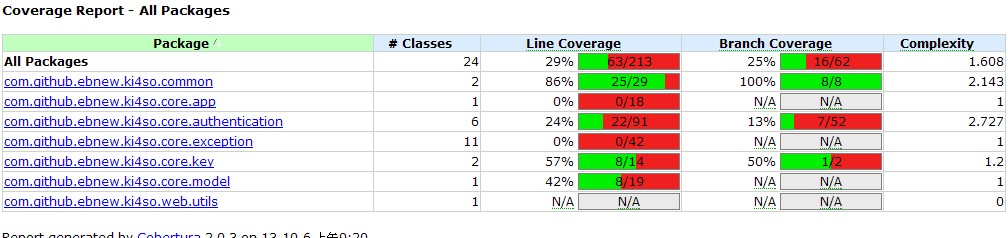
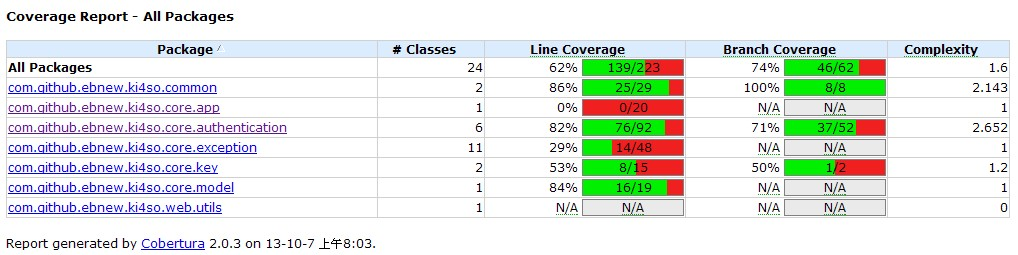
完善单元测试。

diff --git a/ki4so-common/src/test/java/com/github/ebnew/ki4so/core/authentication/EncryCredentialManagerImplTest.java b/ki4so-common/src/test/java/com/github/ebnew/ki4so/core/authentication/EncryCredentialManagerImplTest.java
@@ -2,6 +2,7 @@ package com.github.ebnew.ki4so.core.authentication;
 
 import java.io.UnsupportedEncodingException;
 import java.net.URLDecoder;
+import java.util.Date;
 
 import junit.framework.Assert;
 
@@ -11,6 +12,7 @@ import org.junit.Test;
 import org.mockito.Mockito;
 
 import com.github.ebnew.ki4so.common.Base64Coder;
+import com.github.ebnew.ki4so.core.exception.InvalidEncryCredentialException;
 import com.github.ebnew.ki4so.core.key.KeyService;
 import com.github.ebnew.ki4so.core.key.Ki4soKey;
 import com.github.ebnew.ki4so.core.model.EncryCredentialInfo;
@@ -20,6 +22,7 @@ import com.github.ebnew.ki4so.core.model.EncryCredentialInfo;
  * @author burgess yang
  *
  */
+
 public class EncryCredentialManagerImplTest {
 	
 	private EncryCredentialManagerImpl encryCredentialManager;
@@ -34,7 +37,29 @@ public class EncryCredentialManagerImplTest {
 	}
 
 	@Test
-	public void testDecrypt() {
+	public void testDecrypt() throws UnsupportedEncodingException {
+		
+		/**
+		 * 测试异常输入的情况，当加密的用户凭据为空的情况。
+		 */
+		Assert.assertNull(this.encryCredentialManager.decrypt(null));
+		EncryCredential encryCredential = new EncryCredential(null);
+		Assert.assertNull(this.encryCredentialManager.decrypt(encryCredential));
+		encryCredential = new EncryCredential("");
+		Assert.assertNull(this.encryCredentialManager.decrypt(encryCredential));
+		
+		
+		/**
+		 * 测试异常输入的情况，当加密的用户凭据不合法的情况。
+		 */
+		encryCredential = new EncryCredential("sdafdasfdsafdsa");
+		try{
+			this.encryCredentialManager.decrypt(encryCredential);
+			Assert.fail("invalid encry credential ,should trhow an exception.");
+		}
+		catch (InvalidEncryCredentialException e) {
+			
+		}
 	}
 
 	@Test
@@ -46,7 +71,9 @@ public class EncryCredentialManagerImplTest {
 		Assert.assertEquals(0, encryCredentialManager.encrypt(null).length());
 		
 		
-		//测试传入的参数不合法的情况。
+		/**
+		 * 测试传入的参数不合法的情况。
+		 */
 		EncryCredentialInfo encryCredentialInfo = new EncryCredentialInfo();
 		KeyService keyService = Mockito.mock(KeyService.class);
 		encryCredentialManager.setKeyService(keyService);
@@ -54,12 +81,16 @@ public class EncryCredentialManagerImplTest {
 		checkData(result, encryCredentialInfo);
 		
 		
-		//设置模拟服务，查询到的key为null.
+		/**
+		 * 设置模拟服务，查询到的key为null.
+		 */
 		result = encryCredentialManager.encrypt(encryCredentialInfo);
 		checkData(result, encryCredentialInfo);
 		
-		//设置模拟服务，查询到的key不是null.
-		String keyId = "100";
+		/**
+		 * 设置模拟服务，查询到的key不是null.
+		 */
+		String keyId = "1001";
 		Ki4soKey key = new Ki4soKey();
 		key.setKeyId(keyId);
 		key.setValue("dafdasfdasfds");
@@ -67,6 +98,24 @@ public class EncryCredentialManagerImplTest {
 		Mockito.when(keyService.findKeyByKeyId(keyId)).thenReturn(key);
 		result = encryCredentialManager.encrypt(encryCredentialInfo);
 		checkData(result, encryCredentialInfo);
+	
+		/**
+		 * 测试正常的情况。
+		 */
+		String appId = "1000";
+		String userId = "test";
+		encryCredentialInfo.setAppId(appId);
+		Date now = new Date();
+		encryCredentialInfo.setCreateTime(now);
+		encryCredentialInfo.setExpiredTime(now);
+		encryCredentialInfo.setKeyId(keyId);
+		encryCredentialInfo.setUserId(userId);
+		//加码。
+		result = encryCredentialManager.encrypt(encryCredentialInfo);
+		EncryCredential encryCredential = new EncryCredential(result);
+		//解码。
+		EncryCredentialInfo encryCredentialInfo2 = this.encryCredentialManager.decrypt(encryCredential);
+		checkEncryCredentialInfo(encryCredentialInfo, encryCredentialInfo2);
 	}
 	
 	private void checkData(String data, EncryCredentialInfo encryCredentialInfo) throws UnsupportedEncodingException{
@@ -94,9 +143,48 @@ public class EncryCredentialManagerImplTest {
 			Assert.assertEquals(encryCredentialInfo.getKeyId(), keyIds[1]);
 		}
 	}
+	
+	private void checkEncryCredentialInfo(EncryCredentialInfo encryCredentialInfo1, EncryCredentialInfo encryCredentialInfo2){
+		Assert.assertNotNull(encryCredentialInfo1);
+		Assert.assertNotNull(encryCredentialInfo2);
+		
+		Assert.assertEquals(encryCredentialInfo1.getAppId(), encryCredentialInfo2.getAppId());
+		Assert.assertEquals(encryCredentialInfo1.getKeyId(), encryCredentialInfo2.getKeyId());
+		Assert.assertEquals(encryCredentialInfo1.getUserId(), encryCredentialInfo2.getUserId());
+		Assert.assertEquals(encryCredentialInfo1.getCreateTime(), encryCredentialInfo2.getCreateTime());
+		Assert.assertEquals(encryCredentialInfo1.getExpiredTime(), encryCredentialInfo2.getExpiredTime());
+	}
 
 	@Test
 	public void testCheckEncryCredentialInfo() {
+		
+		/**
+		 * 测试输入异常的情况。
+		 */
+		Assert.assertFalse(this.encryCredentialManager.checkEncryCredentialInfo(null));
+		
+		/**
+		 * 测试凭据信息的userId为空。
+		 */
+		EncryCredentialInfo encryCredentialInfo = new EncryCredentialInfo();
+		Assert.assertFalse(this.encryCredentialManager.checkEncryCredentialInfo(encryCredentialInfo));
+		
+		/**
+		 * 测试凭据信息的userId不为空，过期时间为空。
+		 */
+		String userId = "test";
+		encryCredentialInfo = new EncryCredentialInfo();
+		encryCredentialInfo.setUserId(userId);
+		Assert.assertFalse(this.encryCredentialManager.checkEncryCredentialInfo(encryCredentialInfo));
+		
+		
+		/**
+		 * 测试凭据信息的userId不为空，过期时间不为空，但是凭据已经过期的情况。
+		 */
+		encryCredentialInfo.setExpiredTime(new Date());
+		Assert.assertFalse(this.encryCredentialManager.checkEncryCredentialInfo(encryCredentialInfo));
+		
 	}
 
 }
+

diff --git a/ki4so-common/src/main/java/com/github/ebnew/ki4so/core/authentication/EncryCredentialManagerImpl.java b/ki4so-common/src/main/java/com/github/ebnew/ki4so/core/authentication/EncryCredentialManagerImpl.java
@@ -175,7 +175,7 @@ public class EncryCredentialManagerImpl implements EncryCredentialManager{
 			if(StringUtils.isEmpty(encryCredentialInfo.getUserId())){
 				return false;
 			}
-			Date now = new Date();
+			Date now = getCurrentDate();
 			if(encryCredentialInfo.getExpiredTime()!=null){
 				//将未来过期时间减去当前时间。
 				long deta = encryCredentialInfo.getExpiredTime().getTime() - now.getTime();
@@ -187,6 +187,12 @@ public class EncryCredentialManagerImpl implements EncryCredentialManager{
 		}
 		return false;
 	}
-
-
+	
+	/**
+	 * 获得当前时间。
+	 * @return
+	 */
+	private Date getCurrentDate(){
+		return new Date();
+	}
 }
